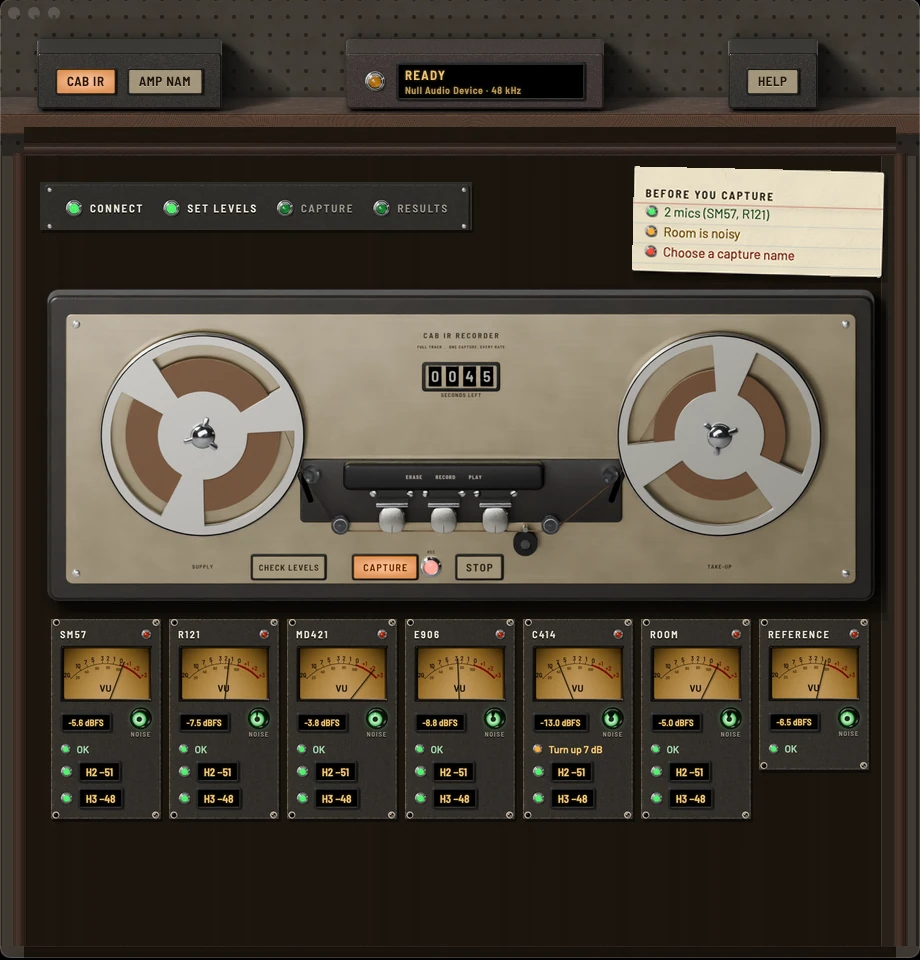
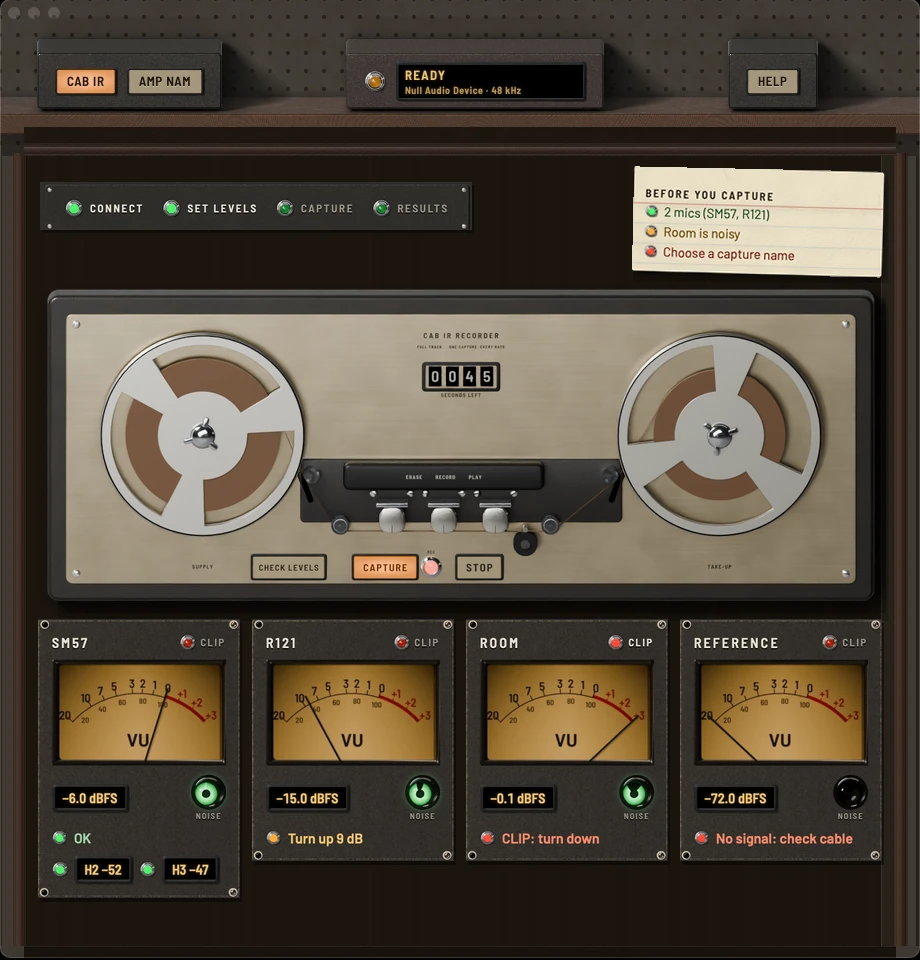
Tape concept 3b: more grain on the brushed plate; Cab IR mockup with four enlarged meter modules
Lowell, 11-03: cart machine yes; more grain; meters bigger, layout for four inputs or fewer, more stack below.

Claude-Session: https://claude.ai/code/session_01DHZSZGUmp6yjn88G1pnFCW

Changed region(s): [[0.0304, 0.625, 0.9739, 0.9375]]

diff --git a/design/render/ircapture_tape_mock2.py b/design/render/ircapture_tape_mock2.py
@@ -4,9 +4,8 @@
 # screenshot-gear.png at 2x) and the new proofs. The deck takes the place of the Set levels and Capture panels; the
 # stepper lamps and the pre-flight card share one row above it; the meter bridge stays under it.
 #
-# CAB IR, worst case: six mics and a reference. The compact modules shrink about 8 % (0.46 of the 2x screenshot instead of
-# 0.5) so all seven fit in one row; otherwise the reference wraps to a second row and the page needs about 60 pt more
-# than the window has.
+# CAB IR: four inputs (SM57, R121, Room, Reference), full-size modules enlarged to fill the opening. More than four
+# stack in rows below and the page scrolls (round 3b's seven-in-a-row compact bridge was dropped: Lowell, 11-03).
 #
 #   ~/bvenv/bin/python design/render/ircapture_tape_mock2.py <shots dir> <proof dir> <out dir>
 import sys, os
@@ -61,14 +60,18 @@ def cab():
     dk = deck('tape-reel-40.png', IN_X1 - IN_X0 - 20)
     shadowed(im, dk, IN_X0 + 10, y, r=8, dy=8, a=0.55)
     y += dk.height + 6
-    s = 0.46
-    mods = [gear((138 + i * 268, 794, 378 + i * 268, 1229), s) for i in range(6)] + [gear((138, 1252, 378, 1581), s)]
-    gap = 8; tw = sum(m.width for m in mods) + gap * (len(mods) - 1)
-    x = (WW - tw) // 2
+    # Lowell, 11-03: the layout is for four inputs or fewer (three mics and a reference, or two mics, a room mic and a
+    # reference); the modules get bigger, not smaller. Four full-size modules fill the opening, about 17 % larger than
+    # round 2 drew them. More inputs stack below in further rows, and the page scrolls.
+    gap = 12; mw = (IN_X1 - IN_X0 - 24 - 3 * gap)
+    s = mw / 4 / 348
+    mods = [gear((148, 198, 496, 678), s)] + [gear((148 + i * 404, 198, 496 + i * 404, 614), s) for i in (1, 2, 3)]
+    x = IN_X0 + 12
     for m in mods:
-        shadowed(im, m, x, y, r=4, dy=3, a=0.45); x += m.width + gap
-    y += mods[0].height
-    print('cab: content ends at %d pt of %d (bottom moulding from %d)' % (y, WH, WH - 26))
+        shadowed(im, m, x, y, r=5, dy=4, a=0.45); x += m.width + gap
+    y += max(m.height for m in mods)
+    print('cab: four full-size modules at %.2f of 2x (%.0f%% of round 2), content ends at %d pt of %d (bottom moulding from %d)'
+          % (s, s / 0.5 * 100, y, WH, WH - 14))
     im.convert('RGB').save(os.path.join(OUT, 'mock-cab-920x960.png'))
     return y
 

diff --git a/design/render/ircapture_tape.py b/design/render/ircapture_tape.py
@@ -144,15 +144,20 @@ def brushed_alu(name='deckbrush', base='#bdae90'):
     nt = m.node_tree; b = nt.nodes['Principled BSDF']; co = obj_coords(nt)
     tg = node(nt, 'ShaderNodeTangent'); tg.direction_type = 'RADIAL'; tg.axis = 'Y'   # radial round y: the tangent runs along x
     nt.links.new(tg.outputs['Tangent'], b.inputs['Tangent'])
-    # the grain: noise stretched 200:1 along x, two scales (the brush's long strokes and the fine hairlines)
-    st = node(nt, 'ShaderNodeMapping'); st.inputs['Scale'].default_value = (0.005, 1.0, 1.0); nt.links.new(co, st.inputs[0])
-    hair = noise(nt, st.outputs[0], 90.0, 4.0, 0.65, lo=0.25, hi=0.75)
-    st2 = node(nt, 'ShaderNodeMapping'); st2.inputs['Scale'].default_value = (0.02, 1.0, 1.0); nt.links.new(co, st2.inputs[0])
-    stroke = noise(nt, st2.outputs[0], 6.0, 3.0, 0.55, lo=0.3, hi=0.7)
-    add_bump(m, hair, 0.12, 0.0015)
-    mix_into(m, 'Roughness', mul(nt, hair, 0.6), 0.44, 'FLOAT')
-    mix_into(m, 'Base Color', mul(nt, stroke, 0.35), (*srgb('#a89a7e'), 1))
-    mix_into(m, 'Base Color', mul(nt, hair, 0.25), (*srgb('#cbbfa6'), 1))
+    # the grain: noise stretched 200:1 along x. Three scales: the brush's long strokes, hairlines coarse enough to
+    # survive at app size (about 22 px a cm at 2x; round 3b's 90-a-cm hairlines averaged out to nothing), and a fine set
+    # for the full-quality pass (Lowell, 11-03: more grain).
+    def streak(sx, sc, lo, hi):
+        mp = node(nt, 'ShaderNodeMapping'); mp.inputs['Scale'].default_value = (sx, 1.0, 1.0); nt.links.new(co, mp.inputs[0])
+        return noise(nt, mp.outputs[0], sc, 5.0, 0.7, lo=lo, hi=hi)
+    stroke = streak(0.02, 2.5, 0.3, 0.7)
+    hair = streak(0.006, 12.0, 0.35, 0.65)
+    fine = streak(0.004, 60.0, 0.3, 0.7)
+    add_bump(m, hair, 0.35, 0.003); add_bump(m, fine, 0.2, 0.0015)
+    mix_into(m, 'Roughness', mul(nt, hair, 0.8), 0.48, 'FLOAT')
+    mix_into(m, 'Base Color', mul(nt, stroke, 0.4), (*srgb('#a4967a'), 1))
+    mix_into(m, 'Base Color', mul(nt, hair, 0.5), (*srgb('#d2c6ac'), 1))
+    mix_into(m, 'Base Color', mul(nt, fine, 0.25), (*srgb('#a99c82'), 1))
     # age: a soft warm cloud, darker toward the edges
     mix_into(m, 'Base Color', mul(nt, noise(nt, co, 0.3, 3.0, 0.55, lo=0.35, hi=0.75), 0.45), (*srgb('#968a72'), 1))
     surface_wear(m, dust=0.3, smudge=0.5, scuff=0.35)
